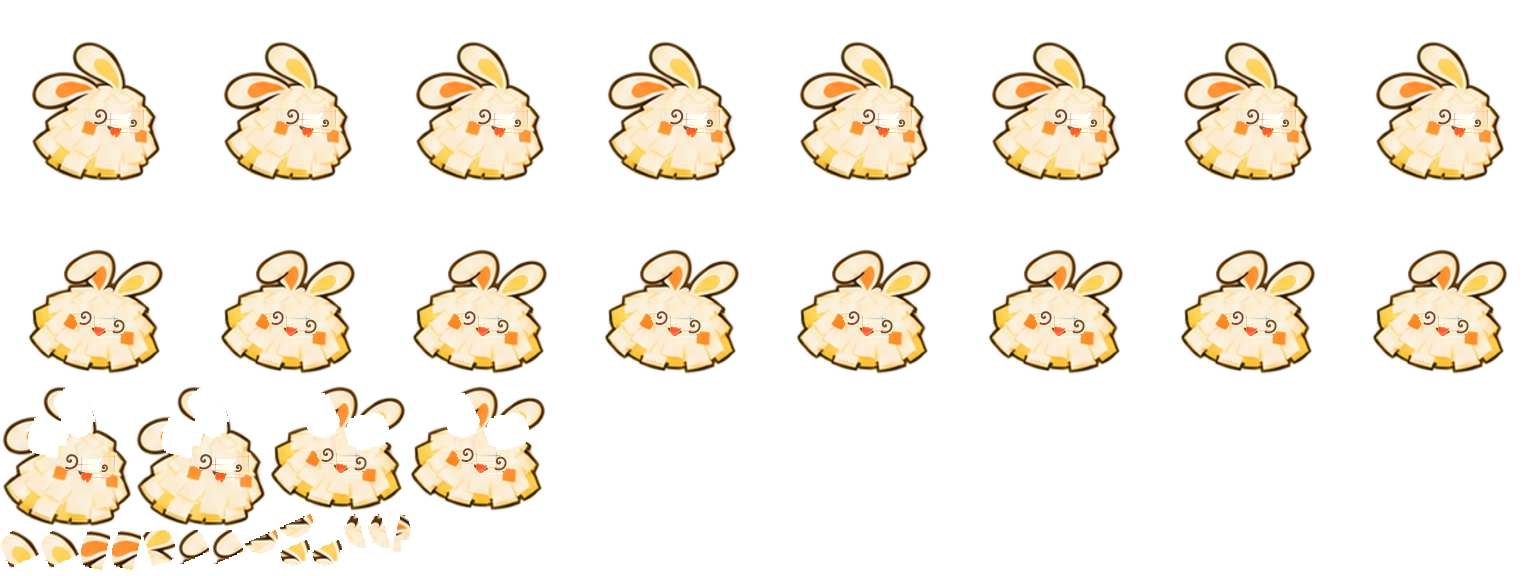
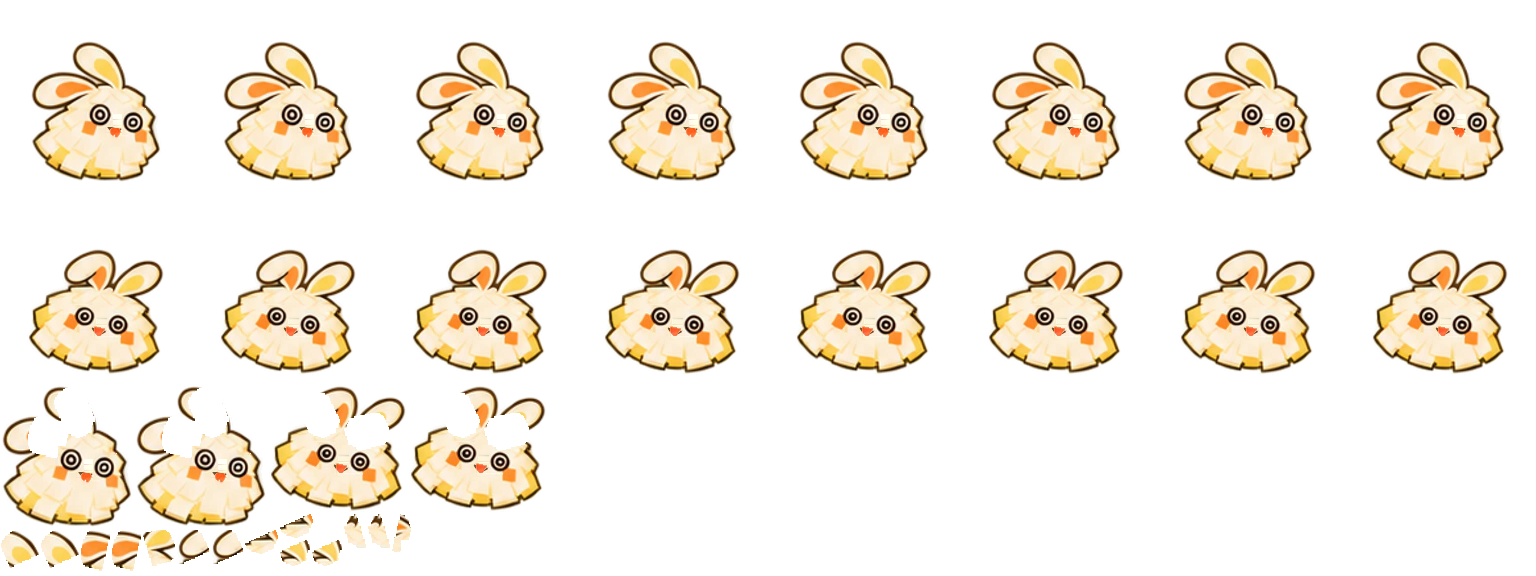
fix(companion): restore native dizzy eyes
Codex-Session: 01a1ef99-fd79-7683-b860-cd07dff03901

diff --git a/lib/ui/viewer-companion/expression-painter.ts b/lib/ui/viewer-companion/expression-painter.ts
@@ -3,6 +3,7 @@ import overrides from "./expression-pose-overrides.json";
 import policy from "./appearance-policy.json";
 import anchors from "./expression-anchors-161.json";
 import { companionFaceLayout } from "./face-layout";
+import { restoreCompanionSpiralEyes } from "./spiral-eyes";
 import { peekDecodedCompanionSprite, type CompanionSpriteSelection } from "./sprite-quality";
 import { COMPANION_EYE_SHAPE as E, COMPANION_MOUTH_SHAPE as M, sampleCompanionExpression, type CompanionExpressionId } from "./expressions";
 import { companionAppearanceEyes, companionAppearancePoint, companionAppearanceBounds, companionAppearanceFrames, resolveCompanionAppearanceSource } from "./appearance";
@@ -159,6 +160,8 @@ export function createCompanionExpressionPainter(canvas: HTMLCanvasElement, read
       let painted = 0;
       for (let i = 0; i < 2; i++) {
         const { original, width, height, x, y, fill } = eyePatches[i]; if (!fill) continue;
+        // The original dizzy rings are restored atomically after mouth repair.
+        if (native === "spiral") { painted++; continue; }
         const gazeX = Math.max(-width * .28, Math.min(width * .28, face.gazeX * .9)) * face.weight;
         const gazeY = Math.max(-height * .25, Math.min(height * .25, face.gazeY * .8)) * face.weight;
         // A smiling source pose starts closed. Morph that lid into the target
@@ -169,11 +172,6 @@ export function createCompanionExpressionPainter(canvas: HTMLCanvasElement, read
         const shape = i === 0 ? face.leftShape : face.rightShape, side = i === 0 ? 1 : -1;
         ctx.save(); ctx.translate(x, y); ctx.rotate(layout.angle);
         ctx.strokeStyle = "#704626"; ctx.lineCap = "round"; ctx.lineJoin = "round";
-        if (native === "spiral") {
-          ctx.lineWidth = Math.max(.65, Math.min(1.05, width * .1)); ctx.beginPath();
-          for (let step = 0; step <= 64; step++) { const t = step / 64, a = t * Math.PI * 2.6, radius = width * .44 * t; const px = Math.cos(a) * radius, py = Math.sin(a) * radius; if (!step) ctx.moveTo(px, py); else ctx.lineTo(px, py); }
-          ctx.stroke();
-        }
         if (open > .015) {
           ctx.save(); ctx.beginPath();
           // Preserve the pupil's width and texture. Eyelids move over it;
@@ -324,6 +322,7 @@ export function createCompanionExpressionPainter(canvas: HTMLCanvasElement, read
         for (let k = 0; k < 3; k++) final.data[i + k] = keep ? original.data[i + k] : Math.round(mix(original.data[i + k], final.data[i + k], sourceBlend));
         final.data[i + 3] = original.data[i + 3];
       }
+      if (native === "spiral") restoreCompanionSpiralEyes(final.data, original.data, selected.physicalIndex);
       ctx.putImageData(final, 0, 0);
       canvas.style.transform = `translate3d(${selected.frame.x / 80 * 100}%,${selected.frame.y / 80 * 100}%,0)`;
       canvas.style.clipPath = `inset(${selected.frame.clip.map(n => `${n / 80 * 100}%`).join(" ")})`;

diff --git a/tests/unit/companion-spiral-eyes.test.ts b/tests/unit/companion-spiral-eyes.test.ts
@@ -1,0 +1,31 @@
+import { describe, expect, it } from "vitest";
+import edition from "@/lib/ui/viewer-companion/appearance-edition.json";
+import { companionSpiralEyeBounds, restoreCompanionSpiralEyes } from "@/lib/ui/viewer-companion/spiral-eyes";
+
+describe("same-source dizzy eye restoration", () => {
+  it("restores both full rings after an overlapping face repair and touches nothing else", () => {
+    const source = new Uint8ClampedArray(192 * 192 * 4).map((_, i) => i % 251);
+    for (const frame of edition.frames.filter(frame => frame.eyeState === "spiral")) {
+      const target = new Uint8ClampedArray(source.length).fill(17), before = target.slice();
+      const bounds = companionSpiralEyeBounds(frame.physicalIndex);
+      expect(bounds).toHaveLength(2);
+      expect(bounds.every(([l, t, r, b]) => r - l >= 20 && b - t >= 20 && l >= 0 && b < 192)).toBe(true);
+      restoreCompanionSpiralEyes(target, source, frame.physicalIndex);
+      let mismatches = 0;
+      for (let y = 0; y < 192; y++) for (let x = 0; x < 192; x++) {
+        const restored = bounds.some(([l, t, r, b]) => x >= l && x <= r && y >= t && y <= b);
+        const at = (y * 192 + x) * 4;
+        for (let c = 0; c < 4; c++) if (target[at + c] !== (restored ? source : before)[at + c]) mismatches++;
+      }
+      expect(mismatches, `eye-only restoration ${frame.physicalIndex}`).toBe(0);
+    }
+  });
+  it("leaves every other authored expression byte-for-byte intact", () => {
+    const source = new Uint8ClampedArray(192 * 192 * 4).fill(222), target = new Uint8ClampedArray(source.length).fill(31);
+    for (const frame of edition.frames.filter(frame => frame.eyeState !== "spiral")) {
+      expect(companionSpiralEyeBounds(frame.physicalIndex)).toEqual([]);
+      restoreCompanionSpiralEyes(target, source, frame.physicalIndex);
+    }
+    expect(target.every(value => value === 31)).toBe(true);
+  });
+});

diff --git a/lib/ui/viewer-companion/spiral-eyes.ts b/lib/ui/viewer-companion/spiral-eyes.ts
@@ -1,0 +1,28 @@
+import { companionAppearanceBounds, companionAppearanceFrames } from "./appearance";
+
+// Outer rings measured in the immutable 192px cells336..351, not the inner
+// dark component returned by the general pupil detector. Include2px AA.
+// These are same-pose source windows; no other face/skin is transplanted.
+const nativeRings: Readonly<Record<number, readonly (readonly number[])[]>> = {
+  43: [[88, 102, 112, 126], [122, 110, 144, 134]],
+  44: [[73, 113, 95, 134], [107, 121, 128, 143]],
+};
+
+export function companionSpiralEyeBounds(index: number): number[][] {
+  const frame = companionAppearanceFrames.get(index);
+  if (frame?.eyeState !== "spiral") return [];
+  return (nativeRings[frame.nativeCell] ?? []).map(box =>
+    companionAppearanceBounds(index, box.map(value => value / 2.4)).map(value => Math.round(value * 2.4)));
+}
+
+/** Native bake only: keep the source's complete concentric dizzy eyes after
+ * the old mouth corridor has been removed. That corridor can touch a ring.
+ * Runtime expressions already yield to authored spiral cells. */
+export function restoreCompanionSpiralEyes(target: Uint8ClampedArray, source: Uint8ClampedArray, index: number) {
+  for (const [left, top, right, bottom] of companionSpiralEyeBounds(index)) {
+    for (let y = top; y <= bottom; y++) {
+      const start = (y * 192 + left) * 4;
+      target.set(source.subarray(start, (y * 192 + right + 1) * 4), start);
+    }
+  }
+}

diff --git a/docs/agent/plans/PLAN-20261119-companion-dizzy-eyes.md b/docs/agent/plans/PLAN-20261119-companion-dizzy-eyes.md
@@ -1,0 +1,31 @@
+# 헤롱헤롱 눈 교정 — 2026-11-19
+
+직접 사용자 원문: “빅타민 헤롱헤롱 모습 이상해. 눈 모습 수정해줘 다시”. 눈만 교정하고 승인된 쓰담(.76), 일반 눈·입·귀·모자·몸과 폼폼 동작은 보존한다. 최신 사용자 원문 “좋아, 이대로 커밋하고 푸시해서 배포까지 해줘.”로 실제 전후 시안 및 commit/main 정상 push/Cloudflare 출시가 승인됐다. 이전 피드백 대기 문장은 이 승인으로 대체한다.
+
+현재판과 immutable 원본 physical336/344를 실제 열어 대조했다. 현재 procedural spiral은1.3회전의 열린 C형이고,336의 오른눈 landmark는 원래 바깥 고리가 아닌 작은 안쪽 고리만 포함한다.344의 기존 입 제거 corridor도 오른눈 일부와 겹친다. 외곽 원화의 동그란 빙글눈을 보존하는 편이 원래 설계와 일치한다.
+
+기존 공통 native bake에서 spiral16셀의 양눈 영역을 같은 원본·같은 포즈 RGBA로 복원한다. 원본은 읽기 전용이고 새 AI 그림을 생성하지 않는다. 측정된 외곽 고리+AA2px의 두 좁은 영역만 사용하며 mouth 제거 뒤 적용해 눈이 잘리지 않게 한다. 기존 canonical 입은 눈 영역 밖에서 그대로 유지한다. 기존 pipeline의 prepare/bake/pack 한 번으로 배포 파생만 만들고 다른504셀과 눈 밖 RGB/전체alpha를 비교한다.
+
+서버/DTO/권한/RLS/KST/DB/의존성 변경 없음. G22는 기존 자율 표정의 그림 교정이며 사람 target·이름·활동기록/최소사용집계와 수집 의미 불변. viewer/studio/preview/옷장/초원은 같은 packet/renderer를 소비한다. 감소동작·타이밍·입력·decoder3/inflight2는 불변이다.
+
+검증: source SHA/동일포즈/눈만 변경 단위와 실제 bake 전후, 타입/lint/단위/build/harness, production fixture의 실제 옷장 dizzy 재생·쓰담 회귀. 같은 화면/크기/테마 origin/main f88f6d3d와 변경 후의 before/after PNG를 `.scratch-pw/dizzy-eyes/runs/20261119-dizzy-eyes/`에 짝으로 둔다. 실제 전후 시안은 사용자 승인을 받았다. 실제 기기/로그인RLS/자연생활36은 주장하지 않는다.
+
+## 구현·기술 확인
+
+공통 painter의 native spiral 분기에서 재작도 대신 원본 양눈 영역을 입 복구 뒤 보존한다. `spiral-eyes.ts`의 좁은 source 창은 원본의 실제 바깥 고리를 확인해336..343/344..351에 각각 적용했다. pipeline `build --scope=eyes` 한 번으로515 native 얼굴을 기존 방식으로 도출하고33패킷을 재검증했다. 내용이 달라진 것은21번 패킷1개뿐이다. 원본33개 SHA와 모든 frame metadata/geometry 유지, 다른504프레임 유지,16셀의 눈 밖 RGB/전체alpha 변경0. 두 눈은 같은 native Canvas RGBA와 완전히 같다. 디스크의 WebP RGB 자체는 alpha253의 Canvas premultiply/unpremultiply 때문에1단계 반올림이 있을 수 있어 이를 무손실 원본 byte 인증으로 표현하지 않는다.
+
+추가 unit2건 포함 전체7,265PASS/1SKIP/실패0(`unit-verified.json`), 타입/lint exit0. 첫 npm 실행은 Windows 인수 전달이 적용되지 않아 제한 없는 worker 경합에서 기존 검사3건이5초 timeout이었다. 소스/기존 기준을 바꾸지 않고 직접 Vitest `--maxWorkers=2 --testTimeout=30000`으로 재실행했다. 최초 로그도 보존한다. 첫 raw Pillow 대조의10,503 RGB 차이는 위 Canvas 경계 반올림이었고, 같은 Canvas 경계로 확인한 RGBA 차이는0이다. 참고 Canvas 추출 첫 시도는 로컬 source.test의 CORS 선언 누락으로 실패했고, 정확한 합성 source 응답에만 선언을 추가했다. 제품 네트워크/guard 변경은 없다.
+
+실제 shared renderer로 before/after 각각16프레임×맨몸/왕관×양방향64조합을 확인했다. `runs/20261119-dizzy-eyes/`의 `before-DIZZY.png`/`after-DIZZY.png`는 같은1000×740 화면·CSS·포즈이며 before asset/module은 기준 fullSHA를 고정했다. 기울어진/정면·맨몸/왕관4그림을 직접 확인했다. 제어된 모자 준비 검사이며 production React 입력/실제 decoder 준비는 별도 실물 증거로 남긴다. 사용자 시각 승인을 대신하지 않는다.
+
+## 로컬 시안 결과
+
+`build.log` production build/내장 타입·lint exit0. `live.json`은9PASS/실패0/재시도0: 실제 시청자·편집실·미리보기 옷장의 맨몸/왕관 헤롱 재생6, 기존 Enter쓰담melt3. 실제 응답의 수정21번 패킷 SHA 일치와 준비된 실제 그림·왕관 합성을 확인했다. 합성 초기 로컬 설정/care·실제 React 입력이며 모든 쓰기/live API는 차단했다. 네트워크 exact GET CSS/법적 문서 RSC 허용은 기존 QA 격리를 유지한다. pageerror/미확인 요청/쓰기/live API0. 서버·권한 검증을 수행한 것으로 확대하지 않는다.
+
+문서 harness 최초는 새 시작 행 때문에 brief8301/8192, 축약 후8214/8192로 실패했다. 기존 다른 작업의 행을 건드리지 않고 이번 새 행만 짧게 만들어 최종8188bytes/452문서 PASS. 관련 memory18PASS. 실패 로그도 보존한다. 같은 주제 결과를 시작 문서에 길게 중복하지 않는다. 이 단락까지는 승인 전 로컬 검사 결과이며 임시 서버는 종료했다. 이후 최신 사용자 출시 승인으로 다음 단계를 진행한다.
+
+## 승인·독립 통합 검수·출시 기록
+
+2026-11-19 KST, 사용자 전후 시안 승인과 출시 요청을 확인했다. 새 수행 컨텍스트가 실제 diff/새 helper/test·기존 material 변환·원본 복원 순서와 전후 그림을 독립 검수했다. 역할/공개·비공개 경계/KST/UX/QA/G22 지적0. 서버·권한·날짜·입력·활동 수집은 변경하지 않았다. `final-proof.json`의9파일 SHA를 실제 다시 계산해 모두 일치했다. 제품 파일 해시 불변이므로 위 전체 검사·실물9건을 같은 소스에 한정해 승계한다. 승인 후 문서 변경은 harness와 관련 memory 검사로 확인한다.
+
+로컬 출시 증거는 원프로젝트 ignored `.scratch-pw/companion-dizzy-eyes-release-20261119/dizzy-eyes/release/`에 보존한다. `authorization.json`/`independent-review.json`/`release-result.json`은 각각 승인·독립 검수·실제 SHA/배포 결과를 구분한다. GitHub 연결 Workers Builds만 사용하며 로컬 cf:deploy는 금지한다. 새 커밋의 빌드/100%버전/운영 JS fullSHA/21번 패킷 SHA와 실제 익명 옷장·쓰담을 확인한 뒤 출시 결과를 남긴다. 이 문서 작성 시점에는 배포 성공을 선행 주장하지 않는다. 실제 기기/로그인RLS/자연생활36은 여전히 미검증이다. QA는 기존14일·용량 보존 정책을 적용하고 no-follow 전후 inventory 확인 후 clean worktree만 정리한다.

diff --git a/docs/agent/domain-rules/COMPANION_APPEARANCE.md b/docs/agent/domain-rules/COMPANION_APPEARANCE.md
@@ -19,6 +19,7 @@
 - 눈의 실제 기준은 **변경 전 달리기 physical304**의 고정 원본 path/SHA다. 정면은 가까운 눈의 폭·높이, 사선은 그 원본의 양눈 폭과 공통 높이. 사선에.83을 다시 곱하지 않는다. 눈동자의 갈색 질감/하이라이트만 투명 glyph로 가져오며 다른 자세의 배경·볼은 붙이지 않는다.
 - 쓰담 감은 눈 선은 기본 눈웃음의 **1.15배**. 한쪽만 허용된 덧그리기는 금지한다. 의도된 윙크/감은 눈/울음/시무룩/나선은 독립 상태다. 회전 자세6셀도 명시적 보정으로 포함해515보이는 얼굴,5뒤통수로 구분한다.
 - 쓰담 ‘헤헤’ 곡률은 `eye.pettingArchControl=.76`. 양끝 높이.08h·폭.98w 유지, 실제 아치 솟음.42h. native source9와 runtime melt에서 공통 사용하고 weight로 진입/복귀를 보간한다. 기존 낮은.22h의 온화한 쓰담 곡선만 대체하며, 다른 표정에 일괄 적용하지 않는다. 인간 표정 연구는 방향 참고이며 수치 근거/시각 승인이 아니다.
+- 2026-11-19 헤롱눈 재교정: native43/44의16셀은 작은 열린 C형 procedural spiral을 폐기하고 같은 포즈 원본의 동그란 빙글눈을 native Canvas RGBA로 보존한다. 바깥 고리+AA2px의 양눈 영역을 입 제거 뒤 복원해 안쪽 고리만 잡힌 오른눈과 겹친 입 corridor의 잘림을 막는다. 눈 밖/전체alpha/나머지504셀과 기존 쓰담·입·귀·모자는 유지한다. 새 원화/AI 생성 없음. 사용자가 실제 전후 시안을 승인하고 commit/main push/Cloudflare 출시를 요청했다. 실제 배포 증거는 로컬 출시 기록으로 확인한다. [계획·증거](../plans/PLAN-20261119-companion-dizzy-eyes.md).
 - 원화의 ω(3을 오른쪽90도 돌린 두 곡선) 입은 **native27/28**의 `mouthState=cat`으로 보존한다. 기본 U미소나 붉은 입을 임의로ω로 바꾸지 않는다. `M.cat`도 실제 두 곡선 한 contour로 그리며 표정 전환에서 옛 입과 새 입을 겹쳐 놓지 않는다.
 - 같은 native 원화의 반복에만 몸통 alpha 기준 면적을 맞춘다. 귀4조각과 분리 감정 기호는 면적 측정에서 제외한다. 원본의 rig/fit으로 생긴 차이는 wholeRGBA에 한 번 균일 보정하고 같은 역변환으로 ownership을 나눈다. 얼굴/입/모자/운반/접촉 좌표도 같은 affine, clip은새 alpha를 포함하도록 확장한다. 다른 포즈의 원근/접힘을 같은 외곽으로 강제 정규화하지 않는다.
 - 실행 중 높이가 늘면 너비를 줄이고, 낮아지면 너비를 늘리는 reciprocal 면적 보존과 전체strain 예산을 공유한다. **깊이를 고정한2D 겉보기 면적 모델**이다. 실제3D부피를 측정하거나 완전한 물리 시뮬레이션으로 인증하지 않는다. 최종 encoded alpha의 목표 면적 오차1% 정책으로 래스터 오차도 검사한다.
